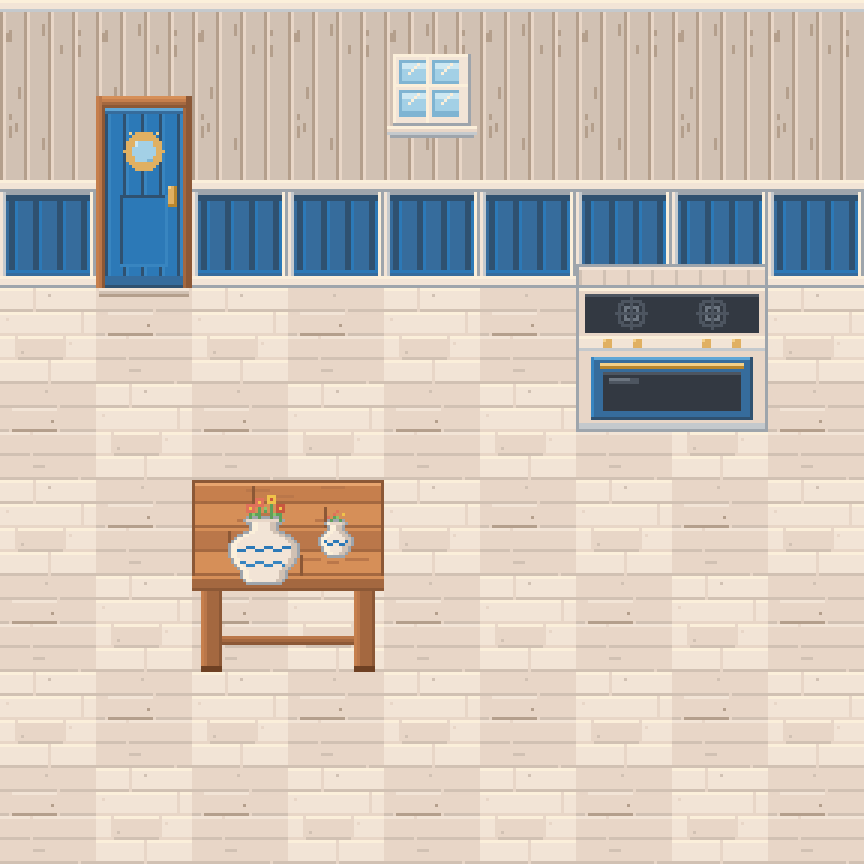
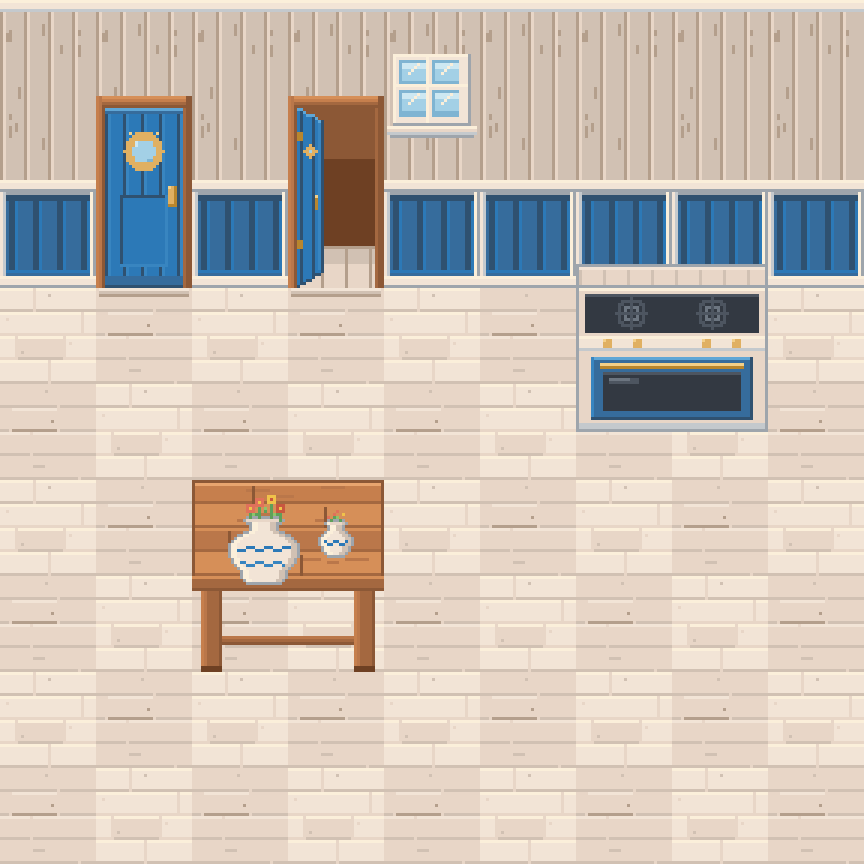
Pilot art: open door, character pilot (#66)
* Template and preview: things on the floor fill their cell and stand on its bottom edge, contact shadows, chairs tucked under tables, counters against the wall; game sprites anchor at the cell bottom

Claude-Session: https://claude.ai/code/session_017R2xVMGFyizhgT3oNq3RGh

* ผนังด้านข้างเป็นแถบต่อเนื่อง ไม่แบ่งเป็นช่อง

Claude-Session: https://claude.ai/code/session_017R2xVMGFyizhgT3oNq3RGh

* ปุ่มหมุนของ (ซื้อครั้งเดียว หมุนได้), เก้าอี้ 3 ภาพ, ลบรูปเก่าทั้งหมด

Claude-Session: https://claude.ai/code/session_017R2xVMGFyizhgT3oNq3RGh

* ลบสคริปต์ make_templates.py ที่อ้างภาพไอโซเมตริกที่ลบไปแล้ว

Claude-Session: https://claude.ai/code/session_017R2xVMGFyizhgT3oNq3RGh

* กริดละเอียดครึ่งช่องสำหรับของที่วาง (พื้น ผนัง ที่ดินยังเป็นช่องเดิม)

Claude-Session: https://claude.ai/code/session_017R2xVMGFyizhgT3oNq3RGh

* ของวางบนโต๊ะ (ชั้นแยก) และขอบพื้นต่อกัน (หญ้า ดิน ทราย) พร้อมแม่แบบ 64 ชิ้น

Claude-Session: https://claude.ai/code/session_017R2xVMGFyizhgT3oNq3RGh

* คลังเก็บเฟอร์นิเจอร์: เก็บเข้าคลังแทนการขายทันที วางจากคลังฟรี ขายจากคลังเมื่อผู้เล่นเลือกเอง

Claude-Session: https://claude.ai/code/session_017R2xVMGFyizhgT3oNq3RGh

* แม่แบบชุดเต็ม 133 ชิ้น 5 แผ่น (ใช้ในเกมตอนนี้ / จะเพิ่มต่อ / ไอคอน / ตัวละคร) พร้อมคำสั่ง GPT และตัวตรวจแผ่น

Claude-Session: https://claude.ai/code/session_017R2xVMGFyizhgT3oNq3RGh

* เครื่องมือตัดภาพเส้นร่างจากภาพเดียวหลายชิ้น (grid_guides.py) ให้ตัวสร้างแม่แบบใช้แทนรูปทรงง่าย ๆ
[…]

Changed region(s): [[0.3125, 0.0938, 0.4688, 0.3438]]

diff --git a/tools/pixelart/characters.py b/tools/pixelart/characters.py
@@ -1,0 +1,93 @@
+#!/usr/bin/env python3
+"""Pilot character (the restaurant owner): 32 x 64 frame, about 58 px tall (1.8 blocks), a chibi with a big head, in the seaside palette (blue shirt, cream apron).
+Three views: front, side (left; the right is it mirrored) and back. One still pose each, no walking yet.
+python3 tools/pixelart/characters.py [OUTDIR]   writes char_front.png, char_side.png, char_back.png (32x64) and char_sheet.png (a scale preview)"""
+import sys, os
+sys.path.insert(0, os.path.dirname(__file__))
+from PIL import Image
+from shop_pilot import Pix, PIECES, T
+from room_mock import outline
+
+def _out(p):
+    return outline(p, 'h0')
+
+def front():
+    p = Pix(32, 64)
+    # legs and shoes (feet on row 58)
+    for lx in (11, 17): p.rect(lx, 47, lx + 3, 55, 'b0'); p.vline(lx, 47, 55, 'b1')
+    for lx in (10, 17): p.rect(lx, 56, lx + 4, 58, 'w1'); p.hline(lx, lx + 4, 56, 'w3')
+    # torso: blue shirt, cream apron
+    p.rect(9, 30, 22, 47, 'b2'); p.vline(9, 30, 47, 'b3'); p.vline(22, 30, 47, 'b1')
+    p.rect(12, 34, 19, 47, 'c3'); p.hline(12, 19, 34, 'c4'); p.vline(12, 34, 47, 'c4'); p.vline(19, 34, 47, 'n1'); p.hline(12, 19, 47, 'n0')
+    p.vline(12, 30, 34, 'c2'); p.vline(19, 30, 34, 'c2')                          # apron straps
+    p.rect(14, 38, 17, 41, 'c2'); p.hline(14, 17, 38, 'n1')                      # apron pocket
+    p.hline(9, 22, 30, 'b4')
+    # arms and hands
+    for ax, c in ((6, 'b3'), (23, 'b1')): p.rect(ax, 31, ax + 2, 42, 'b2'); p.vline(ax, 31, 42, c)
+    for hx in (6, 23): p.rect(hx, 43, hx + 2, 46, 'k1'); p.hline(hx, hx + 2, 46, 'k0')
+    # head
+    p.rect(8, 6, 23, 28, 'k1'); p.rect(7, 10, 24, 24, 'k1')
+    p.rect(9, 7, 22, 8, 'k2')
+    p.vline(23, 10, 26, 'k0'); p.hline(10, 21, 28, 'k0'); p.set(8, 27, 'k0')
+    # hair: dark cap with a fringe
+    p.rect(7, 4, 24, 12, 'h1'); p.rect(6, 7, 7, 17, 'h1'); p.rect(24, 7, 25, 17, 'h1')
+    p.hline(9, 22, 3, 'h1'); p.hline(8, 23, 4, 'h2')
+    for x in range(9, 23, 3): p.rect(x, 12, x + 1, 13, 'h1')
+    p.hline(10, 20, 6, 'h2')
+    # face
+    for ex in (11, 19): p.rect(ex, 18, ex + 1, 21, 'e0'); p.set(ex, 18, 'c4')
+    p.rect(9, 22, 10, 23, 'p1'); p.rect(21, 22, 22, 23, 'p1')                      # cheeks
+    p.hline(14, 17, 24, 'k0'); p.set(15, 25, 'p0'); p.set(16, 25, 'p0')            # mouth
+    p.set(15, 21, 'k0')
+    return _out(p)
+
+def back():
+    p = Pix(32, 64)
+    for lx in (11, 17): p.rect(lx, 47, lx + 3, 55, 'b0'); p.vline(lx, 47, 55, 'b1')
+    for lx in (10, 17): p.rect(lx, 56, lx + 4, 58, 'w1'); p.hline(lx, lx + 4, 56, 'w3')
+    p.rect(9, 30, 22, 47, 'b2'); p.vline(9, 30, 47, 'b3'); p.vline(22, 30, 47, 'b1'); p.hline(9, 22, 30, 'b4')
+    p.rect(13, 36, 18, 38, 'c3'); p.hline(13, 18, 36, 'c4')                          # apron bow
+    p.vline(12, 30, 36, 'c2'); p.vline(19, 30, 36, 'c2')
+    for ax, c in ((6, 'b3'), (23, 'b1')): p.rect(ax, 31, ax + 2, 42, 'b2'); p.vline(ax, 31, 42, c)
+    for hx in (6, 23): p.rect(hx, 43, hx + 2, 46, 'k1'); p.hline(hx, hx + 2, 46, 'k0')
+    p.rect(8, 6, 23, 28, 'k1'); p.rect(7, 10, 24, 24, 'k1'); p.hline(10, 21, 28, 'k0')
+    p.rect(7, 4, 24, 26, 'h1'); p.rect(6, 7, 7, 22, 'h1'); p.rect(24, 7, 25, 22, 'h1')   # all hair seen from behind
+    p.hline(9, 22, 3, 'h1'); p.hline(8, 23, 4, 'h2'); p.hline(10, 20, 6, 'h2')
+    for x in range(9, 23, 4): p.vline(x, 9, 24, 'h0')
+    return _out(p)
+
+def side():
+    """Facing left."""
+    p = Pix(32, 64)
+    p.rect(12, 47, 17, 55, 'b0'); p.vline(12, 47, 55, 'b1')
+    p.rect(8, 56, 17, 58, 'w1'); p.hline(8, 17, 56, 'w3')
+    p.rect(10, 30, 21, 47, 'b2'); p.vline(10, 30, 47, 'b3'); p.vline(21, 30, 47, 'b1'); p.hline(10, 21, 30, 'b4')
+    p.rect(8, 34, 12, 47, 'c3'); p.vline(8, 34, 47, 'c4'); p.hline(8, 12, 47, 'n0')           # apron in front
+    p.rect(13, 31, 17, 42, 'b3'); p.vline(13, 31, 42, 'b4'); p.vline(17, 31, 42, 'b1')         # near arm
+    p.rect(13, 43, 17, 46, 'k1'); p.hline(13, 17, 46, 'k0')
+    p.rect(8, 6, 23, 28, 'k1'); p.rect(7, 10, 23, 24, 'k1'); p.hline(10, 22, 28, 'k0'); p.vline(23, 10, 26, 'k0')
+    p.rect(6, 4, 24, 11, 'h1'); p.rect(15, 5, 25, 24, 'h1'); p.rect(21, 9, 25, 26, 'h1')       # hair: fringe, then all the back of the head
+    p.hline(8, 22, 3, 'h1'); p.hline(8, 22, 4, 'h2'); p.hline(8, 14, 12, 'h1')
+    p.rect(9, 17, 10, 20, 'e0'); p.set(9, 17, 'c4')                                              # eye
+    p.rect(8, 22, 9, 23, 'p1'); p.hline(8, 9, 25, 'p0'); p.set(7, 20, 'k0')                      # cheek, mouth, nose
+    return _out(p)
+
+VIEWS = {'char_front': front, 'char_side': side, 'char_back': back}
+
+def sheet(views, k=6):
+    """The views beside a door (64 px of wall height, a person is about 58 px) and a table, at one scale."""
+    P = {n: f() for n, f in PIECES.items()}
+    im = Image.new('RGBA', (32 * 3 + 32 + 64 + 48, 72), (236, 232, 224, 255))
+    x = 8
+    for v in views: im.alpha_composite(v, (x, 4)); x += 36
+    x += 4; im.alpha_composite(P['wdeco_door_01'], (x, 2)); x += 40
+    im.alpha_composite(P['rest_table_small_01'].crop((0, 0, 64, 64)), (x, 8))
+    return im.resize((im.width * k, im.height * k), Image.NEAREST)
+
+if __name__ == '__main__':
+    out = sys.argv[1] if len(sys.argv) > 1 else 'char_out'
+    os.makedirs(out, exist_ok=True)
+    made = {n: f() for n, f in VIEWS.items()}
+    for n, im in made.items(): im.save(f'{out}/{n}.png')
+    sheet([made['char_front'], made['char_side'], made['char_back']]).convert('RGB').save(f'{out}/char_sheet.png')
+    print('written', len(made), 'views to', out)

diff --git a/tools/pixelart/shop_pilot.py b/tools/pixelart/shop_pilot.py
@@ -132,6 +132,29 @@ def door():
     p.rect(1, 64, 30, 66, 'c1'); p.hline(1, 30, 64, 'c3'); p.hline(1, 30, 66, 'c0')   # threshold stone
     return p.im
 
+def door_open():
+    """The same door swung open into the room: the frame stays, the opening shows the dim room and its floor, the leaf is seen edge-on at the hinge side,
+    narrow and a little shorter at its far edge (perspective)."""
+    p = Pix(32, 70)
+    p.rect(0, 0, 31, 63, 'w2')
+    p.hline(0, 31, 0, 'w5'); p.hline(0, 31, 1, 'w4'); p.hline(0, 31, 3, 'w1')
+    p.vline(0, 0, 63, 'w4'); p.vline(1, 0, 63, 'w3'); p.vline(31, 0, 63, 'w1'); p.vline(30, 0, 63, 'w1'); p.vline(2, 4, 63, 'w1')
+    p.rect(3, 4, 28, 63, 'w0')                                                    # the dim room behind
+    p.rect(3, 4, 28, 20, 'w1'); p.rect(3, 21, 28, 26, 'w0')
+    p.rect(3, 50, 28, 63, 'c1'); p.hline(3, 28, 50, 'c0'); p.rect(3, 56, 28, 63, 'c2')   # the floor inside, lighter near the door
+    for x in range(3, 29, 8): p.vline(x, 50, 63, 'c0')
+    for x in range(3, 12):                                                         # the leaf, hinged on the left: its far edge is shorter
+        t = (x - 3) / 8.0
+        top = 4 + int(round(4 * t)); bot = 63 - int(round(5 * t))
+        for y in range(top, bot + 1): p.set(x, y, 'b2' if x % 4 else 'b0')
+        p.set(x, top, 'b4'); p.set(x, bot, 'b0')
+    p.vline(11, 8, 58, 'b0'); p.vline(10, 9, 57, 'b3')
+    p.disc(7, 18, 2, 'r1'); p.set(7, 18, 'g1')                                      # porthole, foreshortened
+    p.rect(9, 33, 9, 37, 'r0'); p.set(9, 33, 'r2')                                  # handle
+    p.rect(3, 12, 4, 14, 'r0'); p.rect(3, 48, 4, 50, 'r0')                          # hinges
+    p.rect(1, 64, 30, 66, 'c1'); p.hline(1, 30, 64, 'c3'); p.hline(1, 30, 66, 'c0')   # threshold stone
+    return p.im
+
 def window():
     p = Pix(32, 32)
     p.rect(3, 2, 28, 25, 'c3')                                                     # white frame
@@ -247,7 +270,7 @@ def vase_large():
 
 PIECES = {
     'tile_floor_01': floor_a, 'tile_floor_02': floor_b, 'wall_plain_01': wall_plain, 'wall_low_01': wall_low, 'wall_side_01': wall_side,
-    'wdeco_door_01': door, 'wdeco_window_01': window, 'rest_table_small_01': table, 'rest_stove_01': stove,
+    'wdeco_door_01': door, 'wdeco_door_open_01': door_open, 'wdeco_window_01': window, 'rest_table_small_01': table, 'rest_stove_01': stove,
     'rest_vase_small_01': vase_small, 'rest_vase_large_01': vase_large,
 }
 
@@ -274,6 +297,7 @@ def room(pieces, cols=9, rows=6, k=3):
     im.alpha_composite(pieces['wdeco_door_01'], (1 * C, 3 * C - 64 - 6 + 6 - 0 - 6 + 0 + 0)) if False else None
     base = 3 * C                                                                                # the floor line (bottom of the wall)
     im.alpha_composite(pieces['wdeco_door_01'], (1 * C, base - 70 + 6))
+    im.alpha_composite(pieces['wdeco_door_open_01'], (3 * C, base - 70 + 6))
     im.alpha_composite(pieces['wdeco_window_01'], (4 * C, 3 * C - 96 + 4 + (56 - 28) // 2 - 2))        # window base 42 px up the wall
     for r in range(rows): im.alpha_composite(pieces['wall_side_01'], (0, 0)) if False else None
     im.alpha_composite(pieces['rest_stove_01'], (6 * C, base - 8))                                  # 2 x 2 cells, standing on its bottom edge

diff --git a/tools/pixelart/palette.py b/tools/pixelart/palette.py
@@ -10,6 +10,7 @@ P = {
     'g0': h('#7fb4d2'), 'g1': h('#a3d0e6'), 'g2': h('#cde8f2'),                                                                                  # glass
     's0': h('#333942'), 's1': h('#4d5560'), 's2': h('#6c7580'), 's3': h('#8aa7b9'),                                                              # charcoal / steel
     'r0': h('#b8862e'), 'r1': h('#e0b062'), 'r2': h('#f3d089'),                                                                                  # brass
+    'k0': h('#d49a76'), 'k1': h('#f0c4a0'), 'k2': h('#fbdcc0'), 'h0': h('#3a2a24'), 'h1': h('#5a4034'), 'h2': h('#7a5a46'), 'e0': h('#2a2230'),   # skin, hair, eyes
     'p0': h('#c9573f'), 'p1': h('#e0715a'), 'y0': h('#f0c24a'), 'l0': h('#3f7a43'), 'l1': h('#5fa05a'), 'l2': h('#8cc56a'),                         # flowers and leaves
 }
 T = (0, 0, 0, 0)
